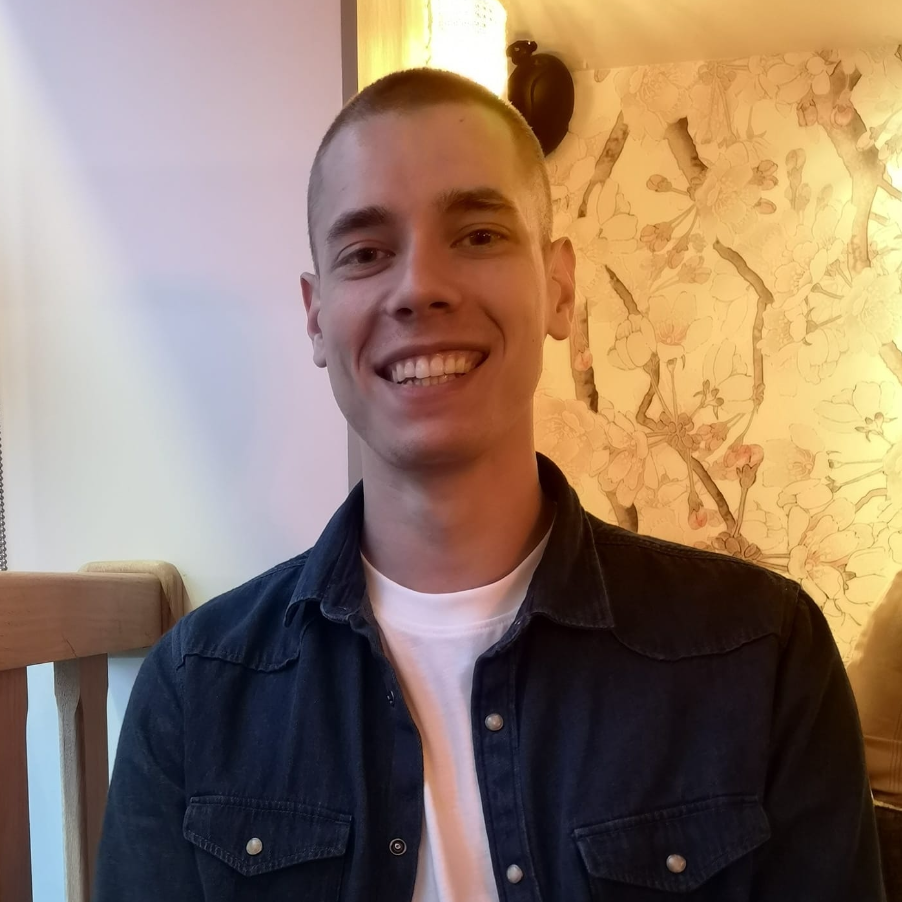
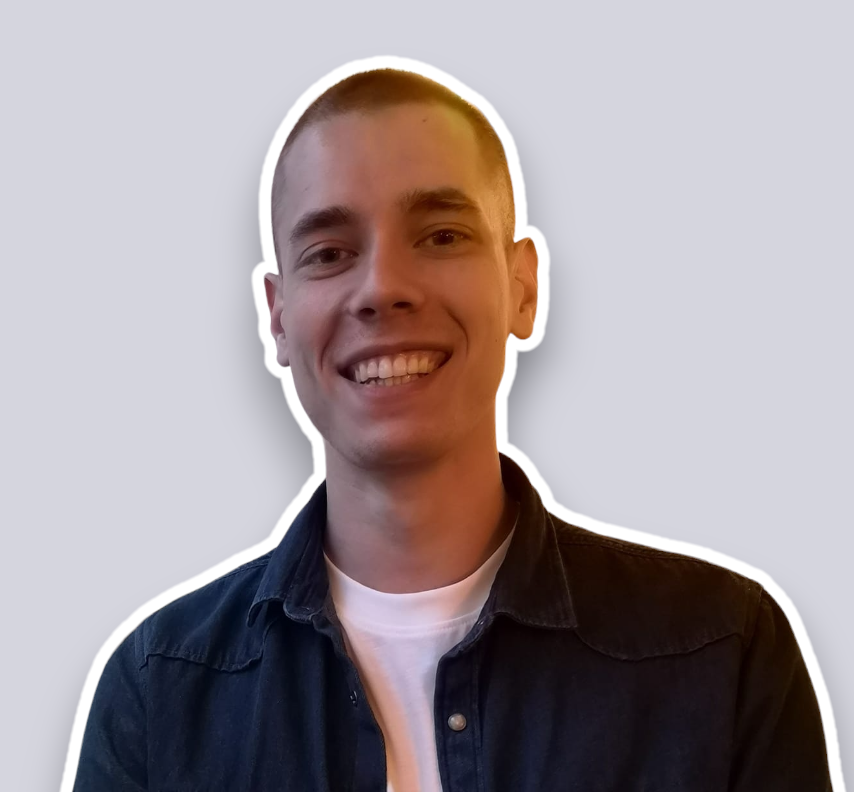
Actualisation visuelle du portfolio : modification du HTML et du CSS, ajout de détails sur les compétences, et ajout d'une nouvelle image.

diff --git a/index.html b/index.html
@@ -52,13 +52,13 @@
             <div data-aos="zoom-in" data-aos-duration="1000" class="container about">
                 <h3>A PROPOS DE MOI</h3>
 
-                <img class="img-about" src="public/img/id.png" alt="image me représentant">
+                <img class="img-about" src="public/img/id-fl.png" alt="image me représentant">
 
                 <p>Enchanté, je m'appelle David, j'ai 28ans. Ravi de vous rencontrer.</p>
-                <p><p>Anciennement <strong class="infobulle" aria-label="Responsable du flux de production et de processus.">Flowleader&#42;</strong> au sein du group RENAULT, l'objectif était de superviser l'activité du magasin accueillant 300 collaborateurs, les anomalies, le contact avec les chargés d'affaire et le service informatique L2 & L3.</p></p>
-                <p>Attiré depuis de nombreuses années par le domaine du Développement Web, j'ai finalement saisi une opportunité pour effectuer une reconversion professionnelle dans ce domaine qui m'a toujours passionné.</p>
+                <p>Anciennement <strong class="infobulle" aria-label="Responsable du flux de production et de processus.">Flowleader&#42;</strong> au sein du group RENAULT, l'objectif était de superviser l'activité du magasin accueillant 300 collaborateurs, les anomalies, le contact avec les chargés d'affaire, le service informatique L2 & L3 et les champions.</p>
+                <p>J&#39;ai décidé d&#39;effectuer une reconversion professionnelle dans le domaine du Développement Web. Je suis particulièrement attiré par le <strong>back-end</strong> pour sa logique et sa capacité à créer des fonctionnalités robustes. Cependant, le <strong>front-end</strong> me fais de l'oeil pour son aspect visuel et interactif. Ensemble, ils offrent des expériences web complètes et enrichissantes.</p>
                 <p>J'ai achevé ma formation de développeur full stack à la <strong>3W Academy</strong>, où j'ai acquis des compétences en HTML, CSS, JavaScript, PHP, SQL et Bootstrap.</p>
-                <p>Je souhaite approfondir mes connaissances, et quoi de plus logique que de poursuivre avec une alternance en tant que <strong>&quot;Concepteur Développeur Web Full Stack&quot;</strong>, une opportunité idéale pour approfondir mes compétences dans ce domaine.</p>
+                <p>Je souhaite approfondir mes connaissances en tant que <strong>&quot;Concepteur Développeur Web Full Stack&quot;</strong>, une opportunité idéale pour améliorer mes compétences dans ce domaine.</p>
             </div>
 
         </section>
@@ -66,16 +66,42 @@
         <section data-aos="fade-right" data-aos-duration="1000" id="competences">
             <div class="container">
                 <h3>COMPÉTENCES</h3>
-                <div class="skills">
-                    <img class="img-logo" src="public/img/HTML5_logo.png" alt="HTML5_logo">
-                    <img class="img-logo" src="public/img/CSS3_logo.png" alt="CSS3_logo">
-                    <img class="img-logo" src="public/img/javascript_logo.png" alt="javascript_logo">
-                    <img class="img-logo" src="public/img/PHP_logo.png" alt="PHP_logo">
-                    <img class="img-logo" src="public/img/MySQL_logo.png" alt="MySQL_logo">
-                    <img class="img-logo" src="public/img/Jira_Logo.png" alt="Jira_Logo">
-                    <img class="img-logo" src="public/img/Bootstrap_logo.png" alt="Bootstrap_logo">
-                    <img class="img-logo border" src="public/img/logo_manhattan-1.jpg" alt="manhattan-associates-logo">
-                </div>
+                <ul class="skills">
+                    <li>
+                        <img class="img-logo" src="public/img/HTML5_logo.png" alt="HTML5_logo">
+                        <p>HTML : Front-end</p>
+                    </li>
+                    <li>
+                        <img class="img-logo" src="public/img/CSS3_logo.png" alt="CSS3_logo">
+                        <p>CSS : Front-end</p>
+                    </li>
+                    <li>
+                        <img class="img-logo" src="public/img/javascript_logo.png" alt="javascript_logo">
+                        <p>JS : Front-end</p>
+                    </li>
+                    <li>
+                        <img class="img-logo" src="public/img/PHP_logo.png" alt="PHP_logo">
+                        <p>PHP : Back-end</p>
+                    </li>
+                    <li>
+                        <img class="img-logo" src="public/img/MySQL_logo.png" alt="MySQL_logo">
+                        <p>MySQL : Base de données</p>
+                    </li>
+                    <li>
+                        <img class="img-logo" src="public/img/Jira_Logo.png" alt="Jira_Logo">
+                        <p>Jira : Gestion de projets et tâches</p>
+                    </li>
+                    <li>
+                        <img class="img-logo" src="public/img/Bootstrap_logo.png" alt="Bootstrap_logo">
+                        <p>Bootstrap : Framework front-end</p>
+                    </li>
+                    <li>
+                        <img class="img-logo border" src="public/img/logo_manhattan-1.jpg" alt="manhattan-associates-logo">
+                        <p>Manhattan : Gestion logistique</p>
+                    </li>
+                </ul>
+                <!-- <div class="skills">
+                </div> -->
             </div>
 
         </section>

diff --git a/public/css/style.css b/public/css/style.css
@@ -308,16 +308,40 @@ MAIN
 }
 
 .img-logo {
-    max-width: 26%;
+    max-width: 50%;
     margin: auto;
-    padding: 1rem;
+    /* padding: 1rem; */
 }
 
-.skills {
+/* .skills {
     display: flex;
     justify-content: space-around;
     flex-wrap: wrap;
+} */
+
+/*  */
+
+.skills {
+    padding: 0;
+    display: flex;
+    flex-wrap: wrap;
+    justify-content: center;
+    list-style-type: none;
+    align-items: baseline;
 }
+
+.skills li {
+    text-align: center;
+    margin: 1rem;
+    flex: 1 1 15rem;
+}
+
+.img-logo {
+    width: 10rem;
+    height: auto;
+}
+
+/*  */
 
 .border {
     border-radius: 1rem;
@@ -382,11 +406,11 @@ article {
         max-width: 45%;
     }
 
-    .img-logo {
+    /* .img-logo {
         max-width: 20%;
         margin: auto;
         padding: 1rem 2rem 1rem 2rem;
-    }
+    } */
 
     .img-about {
         max-width: 20%;
@@ -444,11 +468,17 @@ article {
         height: fit-content;
     }
 
-    .img-logo {
+    .skills li {
+        text-align: center;
+        margin: 1rem;
+        flex: 1 1 20rem;
+    }
+
+    /* .img-logo {
         max-width: 19%;
         margin: auto;
         padding: 2rem 3rem 2rem 3rem;
-    }
+    } */
 
     .img-about {
         max-width: 30%;
